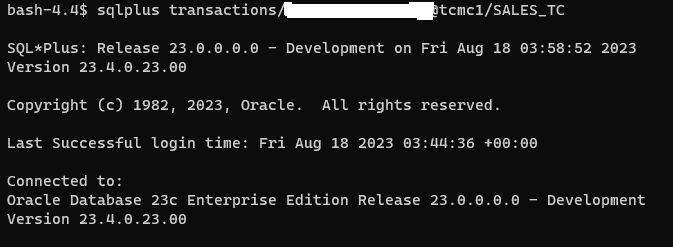
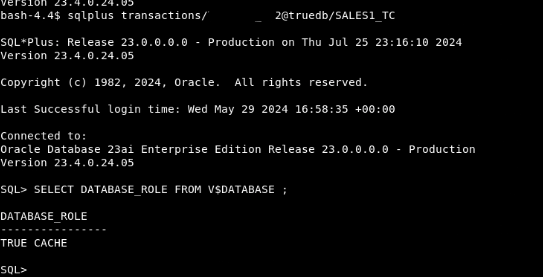
WMS ID: 11454 - Improve application performance with True Cache, in coroprate PM review feedback (#595)
* Truecache livelabs first change

* true cache livelabs 2nd revision

* Truecache 3rd revision

* True Cache lint checker fix

* Some more lint check bug fix

* Remove unused files

* Updating the manifest.jspn for other folders

* Code review comments

* Code review comments and some screenshots

* Links to images with the oraclelivelabs absolute location

* Update manifest.json

Remove lab 1 and 2 for Green button Sandbox and rename labs

* Update manifest.json

Remove lab 1 and Lab 2 for Sandbox and Desktop version.

* Update manifest.json

* Update manifest.json

Change the workshop title to "Improve application performance with True Cache"

* Update prepare-setup.md

Changed the resource manager zip file to correct hyperlink for true cache.

* Update prepare-setup.md

Changed the hyperlink to reflect the resource manager for True cache

* Update manifest.json

Changed the workshop title

* Update prepare-setup.md

Spell check

* Update manifest.json

* True Cache lab documentation review changes

True Cache lab documentation review changes

* Incorporate PM review comment True Cache livelabs

Incorporate PM review comment for True Cache livelabs

---------

diff --git a/truecache/data-load/data-load.md b/truecache/data-load/data-load.md
@@ -46,7 +46,7 @@ This lab assumes you have:
 3. Alter the session to log in to the PDB
     ```
     <copy>
-    alter session set container=PRODPDB;
+    alter session set container=ORCLPDB1;
     </copy>
     ```
 
@@ -60,10 +60,10 @@ This lab assumes you have:
 
 ![dataload step1](https://oracle-livelabs.github.io/database/truecache/data-load/images/dataloadstep1.png " ")
 
-5. Log on to SALES service as the transactions user using the password specified in step1 and run the step2 and step3.
+5. Log on to SALES1 service as the transactions user using the password specified in step1 and run the step2 and step3.
     ```
     <copy>
-    sqlplus transactions/******@PRODPDB:1521/SALES
+    sqlplus transactions/******@ORCLPDB1:1521/SALES1
     </copy>
     ```
 

diff --git a/truecache/jdbc/jdbc.md b/truecache/jdbc/jdbc.md
@@ -34,7 +34,7 @@ This lab assumes you have:
     ```
 ![app container](https://oracle-livelabs.github.io/database/truecache/jdbc/images/appcontainer.png " ")
 
-2. Run the application by running TransactionApp.sh , This first runs the application against the primary database for 2 minutes. Then it runs the application against True Cache for 2 minutes with 50 threads.
+2. Run the application by running /stage/clientapp/TransactionApp.sh , This first runs the application against the primary database for 2 minutes. Then it runs the application against True Cache for 2 minutes with 50 threads.
 ![transaction app](https://oracle-livelabs.github.io/database/truecache/jdbc/images/transactionapp.png " ")
 
 3. Observe the improve in performance while using True Cache.

diff --git a/truecache/cleanup/cleanup.md b/truecache/cleanup/cleanup.md
@@ -28,7 +28,7 @@ This lab walks you through the steps to running a destroy job
 
 3. Choose the compartment that you chose in Lab 1 to install your stack (on the left side of the page).
 
-4.  Click the name of the stack that you created in Lab 1.The Stack details page opens.
+4. Click the name of the stack that you created in Lab 1.The Stack details page opens.
 
 5. Click **Destroy**.
 
